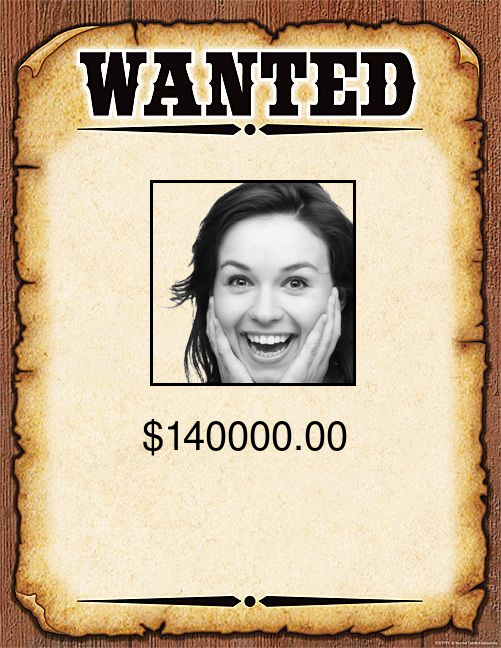
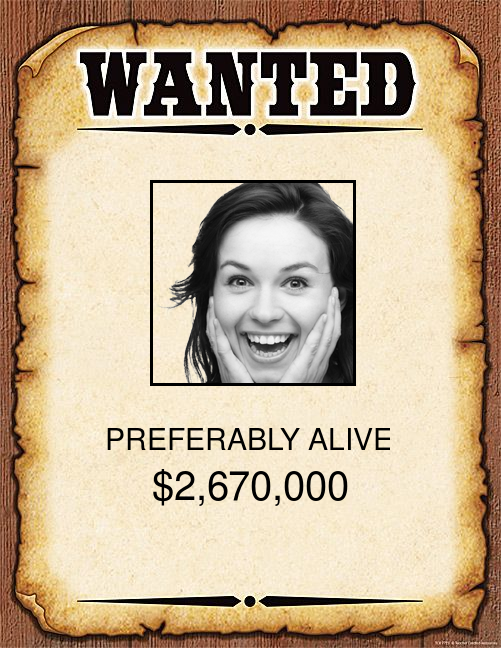
Before 10am

Changed region(s): [[0.2096, 0.6481, 0.7784, 0.7716]]

diff --git a/public/capture.js b/public/capture.js
@@ -1,0 +1,123 @@
+(function() {
+  // The width and height of the captured photo. We will set the
+  // width to the value defined here, but the height will be
+  // calculated based on the aspect ratio of the input stream.
+
+  var width = 240;    // We will scale the photo width to this
+  var height = 0;     // This will be computed based on the input stream
+
+  // |streaming| indicates whether or not we're currently streaming
+  // video from the camera. Obviously, we start at false.
+
+  var streaming = false;
+
+  // The various HTML elements we need to configure or control. These
+  // will be set by the startup() function.
+
+  var video = null;
+  var canvas = null;
+  var photo = null;
+  var startbutton = null;
+
+  function startup() {
+    video = document.getElementById('video');
+    canvas = document.getElementById('canvas');
+    photo = document.getElementById('photo');
+    startbutton = document.getElementById('startbutton');
+
+    navigator.getMedia = ( navigator.getUserMedia ||
+                           navigator.webkitGetUserMedia ||
+                           navigator.mozGetUserMedia ||
+                           navigator.msGetUserMedia);
+
+    navigator.getMedia(
+      {
+        video: true,
+        audio: false
+      },
+      function(stream) {
+        if (navigator.mozGetUserMedia) {
+          video.mozSrcObject = stream;
+        } else {
+          var vendorURL = window.URL || window.webkitURL;
+          video.src = vendorURL.createObjectURL(stream);
+        }
+        video.play();
+      },
+      function(err) {
+        console.log("An error occured! " + err);
+      }
+    );
+
+    video.addEventListener('canplay', function(ev){
+      if (!streaming) {
+        height = video.videoHeight / (video.videoWidth/width);
+
+        // Firefox currently has a bug where the height can't be read from
+        // the video, so we will make assumptions if this happens.
+
+        if (isNaN(height)) {
+          height = width / (4/3);
+        }
+
+        video.setAttribute('width', width);
+        video.setAttribute('height', height);
+        canvas.setAttribute('width', width);
+        canvas.setAttribute('height', height);
+        streaming = true;
+      }
+    }, false);
+
+    startbutton.addEventListener('click', function(ev){
+      takepicture();
+      ev.preventDefault();
+    }, false);
+
+    clearphoto();
+  }
+
+  // Fill the photo with an indication that none has been
+  // captured.
+
+  function clearphoto() {
+    var context = canvas.getContext('2d');
+    context.fillStyle = "#AAA";
+    context.fillRect(0, 0, canvas.width, canvas.height);
+
+    var data = canvas.toDataURL('image/png');
+    photo.setAttribute('src', data);
+  }
+
+  // Capture a photo by fetching the current contents of the video
+  // and drawing it into a canvas, then converting that to a PNG
+  // format data URL. By drawing it on an offscreen canvas and then
+  // drawing that to the screen, we can change its size and/or apply
+  // other changes before drawing it.
+
+  function takepicture() {
+    var context = canvas.getContext('2d');
+    console.log(width);
+    console.log(height);
+    if (width && height) {
+      canvas.width = width;
+      canvas.height = height;
+      context.drawImage(video, 0, 0, width, height);
+
+      var data = canvas.toDataURL('image/png');
+      photo.setAttribute('src', data);
+
+      $.ajax({
+        type: "POST",
+        url: 'https://localhost:4000/get_wanted',
+        data: data,
+        success: function() { console.log("AYO IT WORKEDS");},
+      });
+    } else {
+      clearphoto();
+    }
+  }
+
+  // Set up our event listener to run the startup process
+  // once loading is complete.
+  window.addEventListener('load', startup, false);
+})();

diff --git a/public/index.html b/public/index.html
@@ -1,0 +1,66 @@
+<!DOCTYPE HTML>
+<html>
+  <head>
+    <meta http-equiv="Content-Type" content="text/html; charset=UTF-8" />
+    <meta name="viewport" content="width=device-width, initial-scale=1.0">
+    <link rel="stylesheet" href="main.css" type="text/css" media="all">
+    <script src="https://ajax.googleapis.com/ajax/libs/jquery/3.1.1/jquery.min.js"></script>
+  	<script src="capture.js"></script>
+  	<title>Wanted</title>
+    <style>
+      html{
+          width:100%;
+          height:100%;
+      }
+      body{
+          width:100%;
+          height:100%;
+      }
+    </style>
+  </head>
+  <body>
+    <h1 class="top_header">ARE YOU WANTED?</h1>
+    <div class="camera">
+     <video id="video">Video stream not available.</video>
+     <button id="startbutton">Take photo</button>
+   </div>
+   <canvas id="canvas">
+   </canvas>
+   <div class="output">
+     <img id="photo" alt="The screen capture will appear in this box.">
+   </div>
+
+    <!-- <video autoplay></video>
+    <img src="">
+    <canvas style="display:none;"></canvas>
+
+    <script>
+      var video = document.querySelector('video');
+      var canvas = document.querySelector('canvas');
+      var ctx = canvas.getContext('2d');
+      var localMediaStream = null;
+
+      var errorCallback = function(e) {
+        console.log('Reeeejected!', e);
+      };
+
+
+      function snapshot() {
+        if (localMediaStream) {
+          ctx.drawImage(video, 0, 0);
+          // "image/webp" works in Chrome.
+          // Other browsers will fall back to image/png.
+          document.querySelector('img').src = canvas.toDataURL('image/webp');
+        }
+      }
+
+      video.addEventListener('click', snapshot, false);
+
+      // Not showing vendor prefixes or code that works cross-browser.
+      navigator.getUserMedia({video: true}, function(stream) {
+        video.src = window.URL.createObjectURL(stream);
+        localMediaStream = stream;
+      }, errorCallback);
+    </script> -->
+  </body>
+</html>

diff --git a/public/main.css b/public/main.css
@@ -1,0 +1,55 @@
+.top_header {
+  text-align: center;
+}
+
+#video {
+  border: 1px solid black;
+  box-shadow: 2px 2px 3px black;
+  width:320px;
+  height:240px;
+  -webkit-filter: sepia(1);
+  filter: sepia(1);
+}
+
+#photo {
+  border: 1px solid black;
+  box-shadow: 2px 2px 3px black;
+  width:320px;
+  height:240px;
+}
+
+#canvas {
+  display:none;
+}
+
+.camera {
+  width: 340px;
+  display:inline-block;
+}
+
+.output {
+  width: 340px;
+  display:inline-block;
+    -webkit-filter: sepia(1);
+    filter: sepia(1);
+}
+
+#startbutton {
+  display:block;
+  position:relative;
+  margin-left:auto;
+  margin-right:auto;
+  bottom:32px;
+  background-color: rgba(0, 150, 0, 0.5);
+  border: 1px solid rgba(255, 255, 255, 0.7);
+  box-shadow: 0px 0px 1px 2px rgba(0, 0, 0, 0.2);
+  font-size: 14px;
+  font-family: "Lucida Grande", "Arial", sans-serif;
+  color: rgba(255, 255, 255, 1.0);
+}
+
+.contentarea {
+  font-size: 16px;
+  font-family: "Lucida Grande", "Arial", sans-serif;
+  width: 760px;
+}

diff --git a/do.rb b/do.rb
@@ -5,40 +5,44 @@ require 'RMagick'
 
 Indico.api_key =  '48dbdf05055a75d5872b71d412890394'
 
-# Variables 
+module SavePhoto
+  def init
+
+
+# Variables
 pic = ChunkyPNG::Image.from_file('./test.png')
 wanted_template = ChunkyPNG::Image.from_file('./wanted_template.png')
-maxFaceWidth     = 200 
+maxFaceWidth     = 200
 maxFaceHeight    = 200
 face_crop       = nil
 
 # ===================
-# Helper functions 
+# Helper functions
 
 # crop needs (x, y, crop_width, crop_height)
-def getHeight(top_left, bottom_right) 
-  (top_left[1] - bottom_right[1]).abs 
+def getHeight(top_left, bottom_right)
+  (top_left[1] - bottom_right[1]).abs
 end
 
-def getWidth(top_left, bottom_right) 
+def getWidth(top_left, bottom_right)
   (bottom_right[0] - top_left[0]).abs
 end
 
-def isOversize(points, maxFaceWidth) 
+def isOversize(points, maxFaceWidth)
   points[0]["bottom_right_corner"][0] - points[0]["top_left_corner"][0] > maxFaceWidth
 end
 
 def get_padded_points(top_left, bottom_right, maxFaceWidth)
-  width = getWidth(top_left, bottom_right) 
-  pad = (maxFaceWidth - width) 
+  width = getWidth(top_left, bottom_right)
+  pad = (maxFaceWidth - width)
   [ (top_left[0] - pad),
     (top_left[1] - pad).abs,
      (top_left[0] + pad),
      (top_left[1] + pad).abs ]
 end
 
-def apply_rect() 
-  
+def apply_rect()
+
 end
 
 # ==================
@@ -63,10 +67,10 @@ puts  "==== Original face_crop"
 
 if isOversize(face_points, maxFaceWidth)
   face_crop  = face_crop.resample_bilinear(maxFaceWidth, maxFaceHeight)
-elsif width != maxFaceWidth 
+elsif width != maxFaceWidth
   padded_points =  get_padded_points(top_left_corner,
                                      bottom_right_corner,
-                                     maxFaceWidth) 
+                                     maxFaceWidth)
   face_crop = pic.crop(padded_points[0], padded_points[1],
                       maxFaceWidth,          maxFaceHeight)
 end
@@ -80,21 +84,18 @@ wanted_template.save('combined_pic.png')
 
 canvas = Magick::Image.new(301, 200){self.background_color = 'Transparent'}
 gc = Magick::Draw.new
-rand_num = rand(1000..10000000).round(-4)
-fmt = "%05.2f" % rand_num 
-dollar = "$" + fmt
+rand_num = rand(1000..10000000).round(-4).to_s.reverse.gsub(/(\d{3})(?=\d)/, '\\1,').reverse
+dollar = "$" + rand_num
+gc.pointsize(30)
+gc.text(15,70, "PREFERABLY ALIVE".center(14))
 gc.pointsize(40)
-gc.text(30,70, dollar.center(14))
+gc.text(40,120, dollar.center(14))
 gc.draw(canvas)
 canvas.write('text.png')
 
 text_pic = ChunkyPNG::Image.from_file('./text.png')
 wanted_template.compose!(text_pic, 90, 380)
 wanted_template.save('combined_pic.png')
-# pic.rect(top_left_corner[0] - 20,
-#          top_left_corner[1] - 20,
-#          bottom_right_corner[0] + 20,
-#          bottom_right_corner[1] + 20,
-#          :red )
-# pic.save('big_square.png')
 
+  end
+end

diff --git a/app.rb b/app.rb
@@ -1,0 +1,21 @@
+require 'pry'
+require 'sinatra'
+set :public_folder, 'public'
+
+before do
+  request.body.rewind
+  @request_payload = JSON.parse request.body.read
+end
+
+get '/' do
+  redirect '/index.html'
+end
+
+post '/get_wanted' do
+  require 'data_uri'
+
+  binding.pry
+  puts @request_payload
+  uri = URI::Data.new(@request_payload)
+  File.write('uploads/file.jpg', uri.data)
+end

diff --git a/backend.rb b/backend.rb
@@ -1,0 +1,11 @@
+require 'sinatra'
+set :port, 4000
+
+post '/get_wanted' do
+  require 'data_uri'
+
+  binding.pry
+  puts @request_payload
+  uri = URI::Data.new(@request_payload)
+  File.write('uploads/file.jpg', uri.data)
+end
